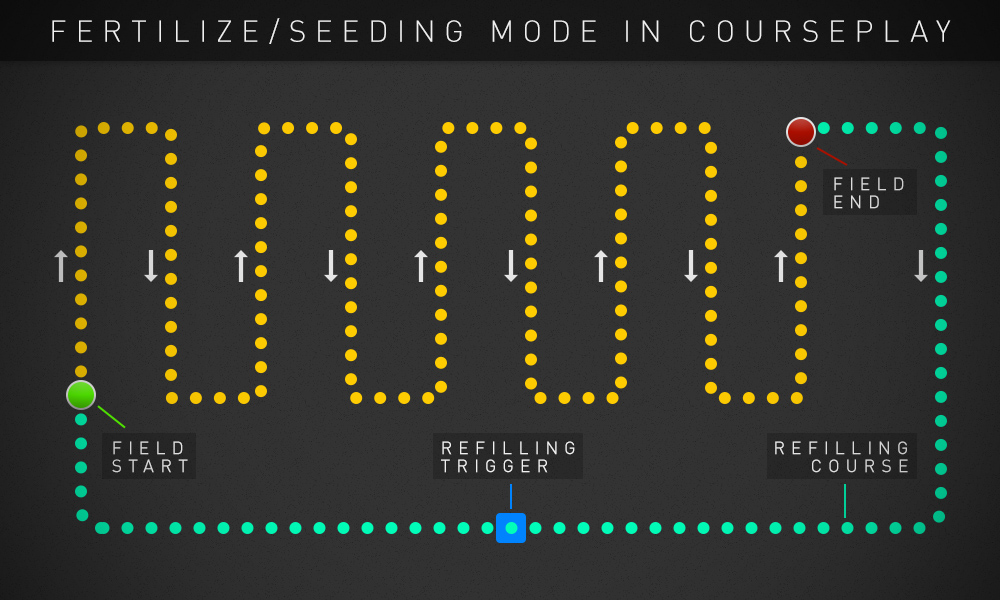
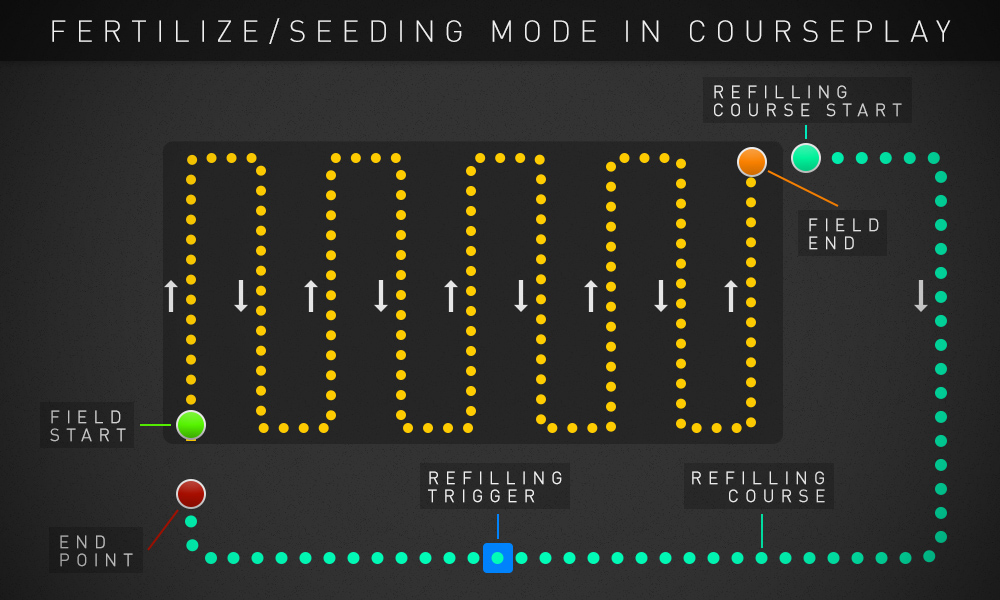
update manual & FAQ images

Changed region(s): [[0.031, 0.15, 0.961, 0.96]]

diff --git a/en/manual/index.html b/en/manual/index.html
@@ -633,7 +633,7 @@
 				HUD: Course generation
 			</h2>
 			<p class="info"><span class="icon-infoSign inline"></span>This page is only displayed in the "Fertilizer and seeding" and "Field work" modes.</p>
-			<p>For general usage, see the <a href="#generateCourse" class="internalTab">course generation</a> page.</p>
+			<p>For general usage, see the <a href="#generateCourse" class="internalTab"><span class="icon-page8 inline" title="generate course button"></span> course generation</a> page.</p>
 			<ul>
 				<li>
 					<h4>Field edge path</h4>
@@ -694,7 +694,7 @@
 				<span class="icon-page9"></span>
 				HUD: Shovel positions
 			</h2>
-			<p class="info"><span class="icon-infoSign inline"></span>This page is only displayed in <a href="#driveMode9" class="internalTab">Fill and empty shovel</a> mode.</p>
+			<p class="info"><span class="icon-infoSign inline"></span>This page is only displayed in <a href="#driveMode9" class="internal"><span class="icon-mode9single inline"></span>Fill and empty shovel</a> mode.</p>
 			<p>Position the arm, shovel and grabber to your liking, then click the corresponding button.</p>
 			<p class="emphasize2"><span class="emphasize3">Pro tip:</span> We recommend that you not lift/lower/open etc. the shovel and grabber to their maximum rotations and translations &mdash; otherwise they might get stuck during the driving of the course.</p>
 			<p class="info"><span class="icon-infoSign inline"></span>These positions do not have to be set during recording. They also <span class="emphasize1">do not</span> indicate <span class="emphasize1">when</span> the shovel should have the set position. They can be overwritten at any given time. They will be saved in the <code>vehicles.xml</code> file.</p>
@@ -864,6 +864,7 @@
 				<figcaption>Helper route, start point, waypoints, overloading point and stop point in the combine self unloading mode</figcaption>
 			</figure>
 			<p>The combine needs to be hired as a regular helper (or with <span class="emphasize2">AutoCombine</span>), and <span class="emphasize1">only then</span> Courseplay may be activated. The combine will work as a helper until its fill level reaches the percentage set at <code>Start at %</code>. Then it drives to the course's start point, follows the course until the waiting point, where it will unload into a waiting trailer. After, it will follow the course until the end point, from where it will drive to the last position where it worked as a helper. Now, it will activate its cutter and continue threshing.</p>
+			<p class="info"><span class="icon-infoSign inline"></span>At the moment, only helper courses in the four standard directions (north, east, south, west) - or the usage of <span class="emphasize2">AutoCombine</span> in up/down mode - are supported.</p>
 		</article>
 
 		<!-- ### DRIVEMODE8 ### -->
@@ -888,8 +889,8 @@
 			<p>This mode lets you fill a shovel in a designated area (e.g. a BGA silo or manure heap) and unload it into a bunker or trailer.</p>
 			<p>The course setup <span class="emphasize1 emphasize2">has to be</span> as follows:</p>
 			<figure>
-				<img src="../../res/img/manual_mode9_en.png" alt="Fill and empty shovel diagram" class="infoImg">
-				<figcaption>All points and directions in the fill and empty shovel mode.</figcaption>
+				<img src="../../res/img/manual_mode9_en.jpg" class="infoImg">
+				<figcaption>All points and directions in the fill and empty shovel mode</figcaption>
 			</figure>
 			<ol>
 				<li>
@@ -932,10 +933,6 @@
 			<ol>
 				<li>
 					<p>If the field scanner is activated, choose a field edge path from the list. If no field is selected, the currently loaded course (if present) is used as a field edge path.</p>
-					<figure>
-						<img src="../../res/img/generateCourse_en.png" class="infoImg">
-						<figcaption>border course along a field's edges</figcaption>
-					</figure>
 				</li>
 				<li>
 					<p>Set the work width. The work width is needed to calculated the distance between the course's lanes.</p>
@@ -943,8 +940,8 @@
 				<li>
 					<p>Set the starting corner. Depending on the size and form of the field and the chosen starting direction, the starting point's position can be in different places:</p>
 					<figure>
-						<img src="../../res/img/generateCourse_3_en.png" class="infoImg">
-						<figcaption>Two possible starting positions with a "northeast" starting corner</figcaption>
+						<img src="../../res/img/manual_generateCourse_startingCorners_en.jpg" class="infoImg">
+						<figcaption>Two possible starting positions with a "north east" starting corner</figcaption>
 					</figure>
 				</li>
 				<li>
@@ -954,24 +951,24 @@
 					<p><span class="emphasize2">(optional)</span><br />
 					Activate/deactivate <code>Return to first point</code>. If activated, the driver will drive to the starting point (instead of the end point) when the used tool is full (field work mode)/empty (fertilizer and seeding mode). This can be useful if the unloading/refilling course begins at the starting point.</p>
 					<figure>
-						<img src="../../res/img/generateCourse_4_en.png" class="infoImg">
-						<figcaption>The driver drives to the starting instead of the end point</figcaption>
+						<img src="../../res/img/manual_generateCourse_returnToFirstPoint_en.jpg" class="infoImg">
+						<figcaption>The driver returns to the starting instead of the stopping at the end point</figcaption>
 					</figure>
 					<p>This settings will be hard coded into the course, meaning it can not be changed dynamically while the course is being driven.</p>
 				</li>
 				<li>
 					<p><span class="emphasize2">(optional)</span><br />
 					Set your headland options. Courseplay currently supports a maximum of six lanes, which can be either <span class="icon-headlandBefore inline"></span> before (e.g. with a combine) or <span class="icon-headlandAfter inline"></span> after (e.g. with a cultivator) the field course. If the headland is set to "before", it will start approximately at the set starting corner. If it's set to "after", the field course will continue directly into the headland lane.</p>
-					<p>Also choose the direction of the headland: <span class="icon-headlandClockwise inline"></span> clockwise or <span class="icon-headlandCounterClockwise inline"></span> counter-clockwise</p>
-					<p>Depending on the size and form of the field, the set starting corner and start direction, it can happen that the headland begins at a point where there are multiple are waypoints close by (e.g. the field course's points). This can lead to the driver not always finding waypoint #1. Should this happen, you can set <code>Start course at first point</code> on the <a href="#hud_driverControls" class="internal"><span class="icon-page1 inline"></span> Driver controls</a> page.</p>
+					<p>Also choose the direction of the headland: <span class="icon-headlandClockwise2 inline" title="Headland direction button"></span> clockwise or <span class="icon-headlandCounterClockwise2 inline" title="Headland direction button"></span> counter-clockwise</p>
+					<p>Depending on the size and form of the field, the set starting corner and start direction, it can happen that the headland begins at a point where there are multiple waypoints close by (e.g. the field course's points). This can lead to the driver not always finding waypoint #1. Should this happen, you can set <code>Start course at first point</code> on the <a href="#hud_driverControls" class="internal"><span class="icon-page1 inline"></span> Driver controls</a> page.</p>
 				</li>
 				<li>
 					<p>Click the <span class="icon-page8 inline" title="generate course button"></span> generate course button.</p>
 					<figure>
-						<img src="../../res/img/generateCourse_2_en.png" class="infoImg">
-						<figcaption>A generated course</figcaption>
+						<img src="../../res/img/manual_generateCourse_generatedCourse.jpg" class="infoImg">
+						<figcaption>A generated course with one lane of headland</figcaption>
 					</figure>
-					<p>If the row <span class="icon-page8 inline" title="generate course button"></span> generate course button is disabled, you should check if all requirements are met:</p>
+					<p>If the <span class="icon-page8 inline" title="generate course button"></span> generate course button is disabled, you should check if all requirements are met:</p>
 					<ul>
 						<li>A valid field edge path / a course with at least <span class="emphasize2">5 waypoints</span> must be loaded (when headland is activated, the course has to have at least <span class="emphasize2">20 waypoints</span>)</li>
 						<li>The loaded course has not been generated</li>

diff --git a/en/faq/index.html b/en/faq/index.html
@@ -75,9 +75,14 @@
 		<article id="faqToolSupport" class="singleFaq">
 			<h2>Which tools and vehicles does Courseplay support?</h2>
 			<div class="faqContent">
-				<p>Courseplay supports all default game vehicles and tools, with the exception of the <span class="emphasize2">water trailer</span>.</p>
-				<p>Note: Courseplay does not automatically cut or handle any trees.</p>
-				<p>We also support all modifications which use the default game scripts.</p>
+				<p>Courseplay supports all default game vehicles and tools, with the exception of the <span class="emphasize2">water trailer</span>. We also support all modifications which use the default game scripts.</p>
+				<p class="emphasize2"><span class="emphasize1">Note:</span> Courseplay does not automatically cut or handle any trees.</p>
+				<p>In addition, we specifically support the following modifications <span class="emphasize2">(valid as of v4.00)</span>:</p>
+				<ul>
+					<li><span class="emphasize1">AutoCombine</span> by <span class="emphasize2">biedens</span></li>
+					<li><span class="emphasize1">DriveControl</span> by <span class="emphasize2">upsidedown</span></li>
+					<li><span class="emphasize1">Overloader specialization for auger wagons</span> by <span class="emphasize2">Satis</span></li>
+				</ul>
 			</div>
 		</article>
 
@@ -114,13 +119,12 @@
 					<li><span class="emphasize1">Symmetrical lane change</span>: the vehicles will effectively leave a free lane for the following vehicle.</li>
 				</ul>
 
-				<!--
-				<figure>
-					<img src="../../res/img/faq_symmetricalLaneChange_en.png" alt="Regular vs. symmetrical lane change" class="infoImg">
+				<figure id="laneChangeImage">
+					<img src="../../res/img/faq_laneChange_en.jpg" alt="Regular vs. symmetrical lane change" class="infoImg">
 					<figcaption>Regular vs. symmetrical lane change</figcaption>
 				</figure>
-				-->
-				<noscript>Please enable Javascript to proceed.</noscript>
+
+				<noscript>Please enable Javascript to see a lane change animation.</noscript>
 				<button id="playLaneOffsets" class="button">Play</button>
 				<span id="regularText" class="hidden">Regular lane change</span>
 				<span id="symmetricText" class="hidden">Symmetric lane change</span>
@@ -136,10 +140,10 @@
 					<pre>( pos - ( (num + 1) / 2 ) ) * ww</pre>
 				</p>
 
-				<noscript>Please enable Javascript to proceed.</noscript>
+				<noscript>Please enable Javascript to use the offsect calculator tool.</noscript>
 
-				<p>But, we have also built a tool for calculating the correct offset settings for multiple tools:</p>
 
+				<p id="offsetCalculatorIntro">But, we have also built a tool for calculating the correct offset settings for multiple tools:</p>
 				<div id="offsetCalculator">
 					<div id="textElements">
 						<sub data-lang="en" data-text="courseWorkWidth">Course work width</sub>

diff --git a/res/css/faq.css b/res/css/faq.css
@@ -28,8 +28,8 @@ body.js .singleFaq h2:active {
 	list-style-type:none;
 	padding:8px;
 }
-#faqToolSupport li:nth-child(2n)   { background:rgba(20,20,20,0.07); }
-#faqToolSupport li:nth-child(2n-1) { background:rgba(20,20,20,0.035); }
+#faqToolSupport li:nth-child(2n)   { background:rgba(0,0,0,0.25); }
+#faqToolSupport li:nth-child(2n-1) { background:rgba(0,0,0,0.17); }
 .annotations {
 	border-top:1px solid #D6D6D6;
 	font-size:0.9em;
@@ -42,7 +42,20 @@ body.js .singleFaq h2:active {
 	margin-bottom:0;
 }
 
+/* LANE CHANGE */
+.no-js #playLaneOffsets,
+.no-js #laneChangeStage,
+.js #laneChangeImage {
+	display:none;
+}
+
 /* OFFSET CALCULATOR */
+.no-js #offsetCalculatorIntro,
+.no-js #offsetCalculator {
+	display:none;
+}
+
+
 #offsetCalculator { border-top:2px solid #c6c6c6; margin-top:20px; padding-top:20px; position:relative; }
 #textElements { display:none; }
 #input { 

diff --git a/res/css/manual.css b/res/css/manual.css
@@ -96,16 +96,6 @@ p.info {
 h4 [class^="icon-"] { font-size:1.1em !important; margin-right:0.7em !important; }
 
 figure { margin-top:1em; margin-bottom:1em; }
-img.infoImg {
-	border:1px solid rgba(255,255,255,0.35);
-	padding:5px;
-	width:100%;
-	max-width:100%;
-}
-img.origSize {
-	width:auto !important;
-	max-width:auto !important;
-}
 figcaption {
 	font-family:'ACaslonPro-Italic', Caslon, 'Caslon Pro', Garamond, serif;
 	font-style:italic;

diff --git a/res/css/base.css b/res/css/base.css
@@ -322,6 +322,17 @@ h4 span[class^="icon-"] {
 	text-align:center;
 }
 
+img.infoImg {
+	border:1px solid rgba(255,255,255,0.35);
+	padding:5px;
+	width:100%;
+	max-width:100%;
+}
+img.origSize {
+	width:auto !important;
+	max-width:auto !important;
+}
+
 
 footer {
 	background:rgba(0,0,0,0.9);
